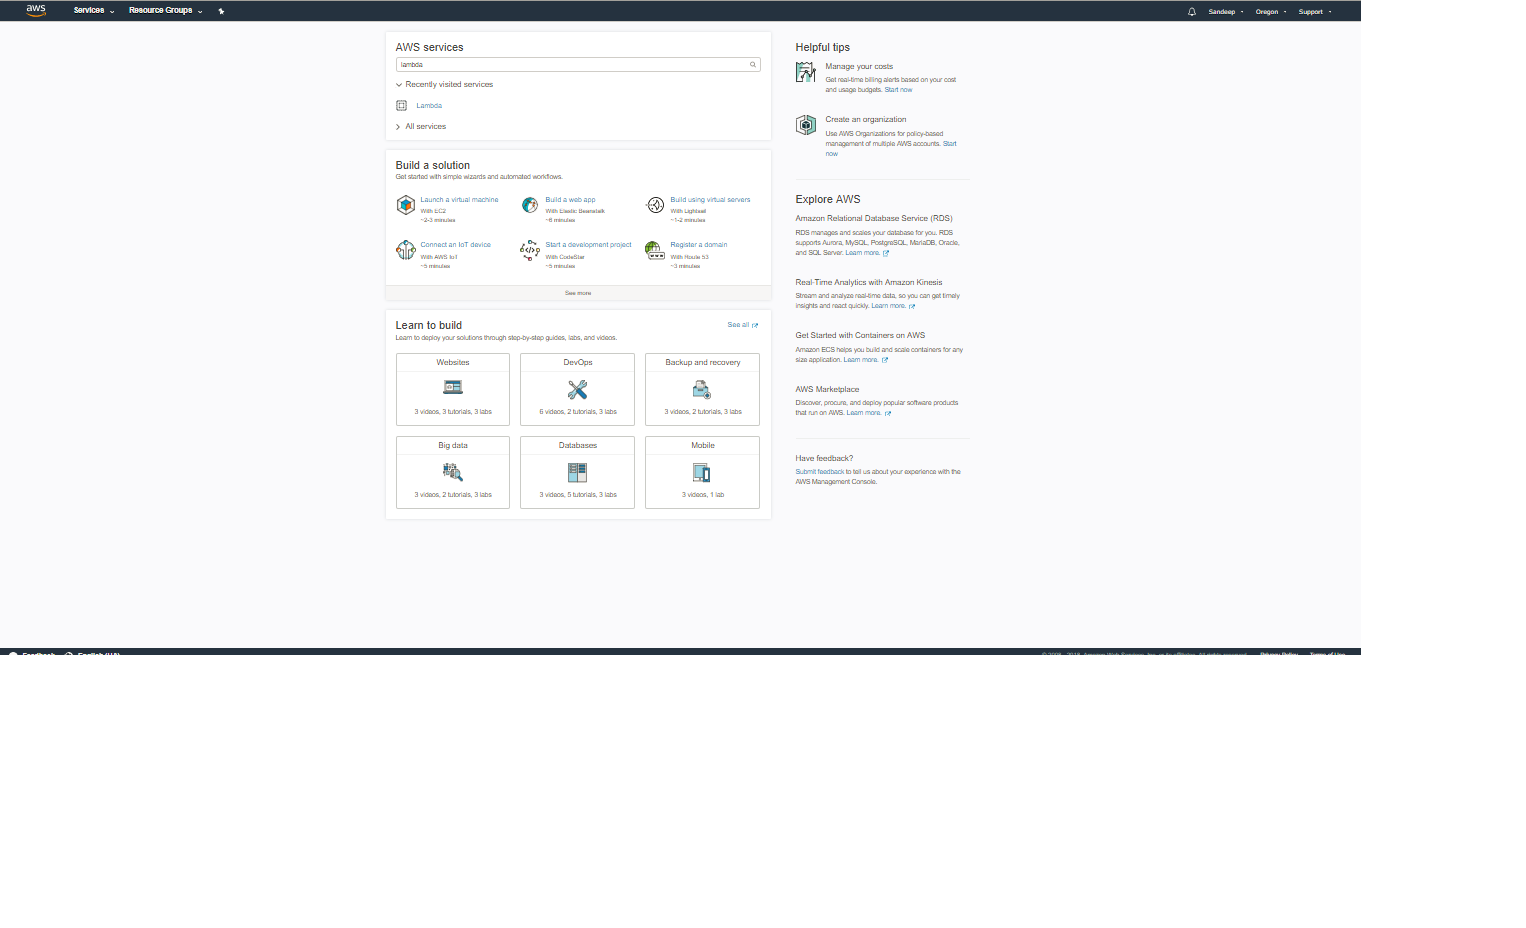
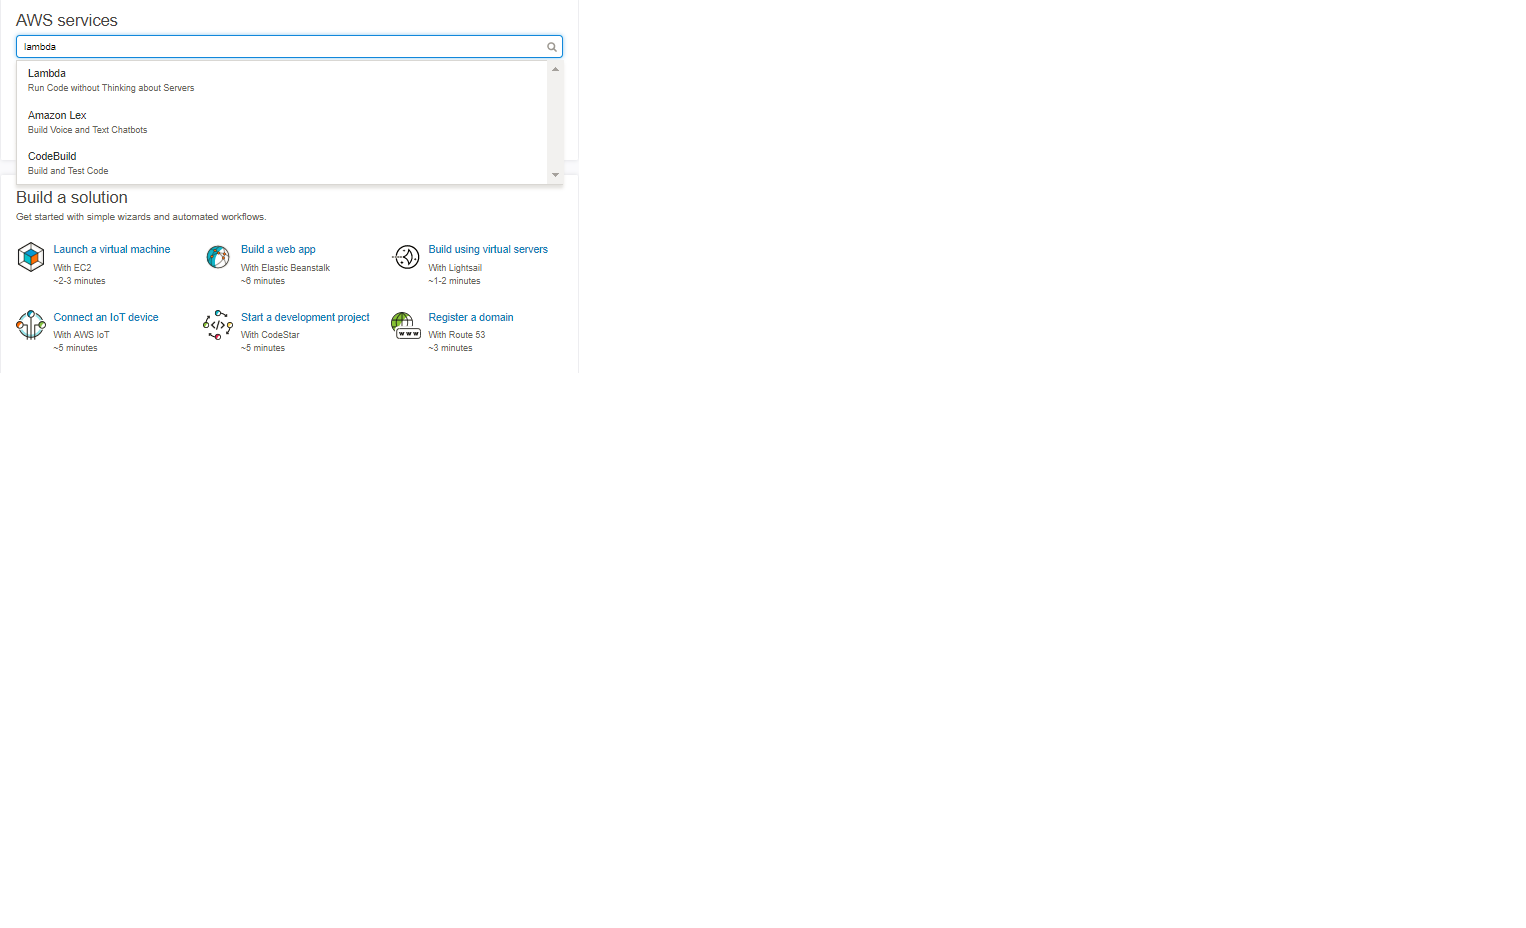
updated

diff --git a/tutorial/aws-lambda.md b/tutorial/aws-lambda.md
@@ -7,14 +7,28 @@ AWS Lambda is serverless computing model. It has the following features
 *	No servers to manage - There is no server to manage in terms of patching, upgrade etc. AWS will take care of all these things.
 *	scales with usage - It increase or decrease the capacity as per the demand
 *	Never pay for idle - Customer will pay only for the time when the function was called
-*	Availability and fault tolerence are build in and AWS take care of this
+*	Availability and fault tolerance are build in and AWS take care of this
 
 ## Steps to create Python function using AWS lambda.
 
 #### Step 1 - Login to AWS console using credentials
 
-Open https://www.aws.com/, and provide the credentials
+Open https://aws.amazon.com/ and provide the credentials
 
 #### Step 2 - Select Lambda services from the dropdown
 
-![AWS Lambda Service](https://github.com/cloudmesh-community/hid-sp18-511/blob/master/tutorial/images/aws_lambda_selection.png?raw=true)
+![AWS Lambda Selection](https://github.com/cloudmesh-community/hid-sp18-511/blob/master/tutorial/images/aws_lambda_selection.png?raw=true)
+
+#### Step 3 - The following screen will appear once Lambda service is selected
+
+![AWS Lambda Screen](https://github.com/cloudmesh-community/hid-sp18-511/blob/master/tutorial/images/aws_lambda_screen.png?raw=true)
+
+#### Step 4 - Click on Create a function button. The following screen will appear to create the function. 
+
+![AWS Lambda Type](https://github.com/cloudmesh-community/hid-sp18-511/blob/master/tutorial/images/aws_lambda_type.png?raw=true)
+
+There are three type of to create the function
+
+*	Author from scratch - Create the function from scratch
+*	Blueprints - Create function using AWS provided templates
+*	Serverless Application Repository - Use the code developed by other developers, companies and partners of AWS
